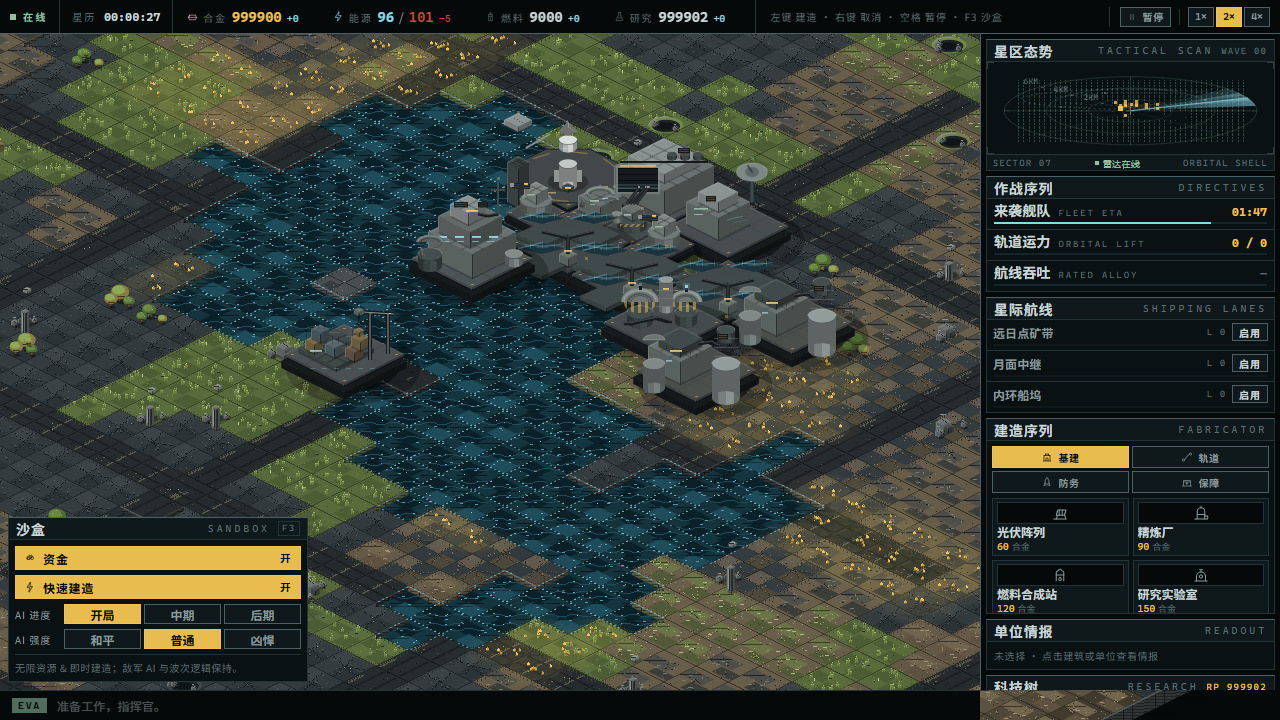
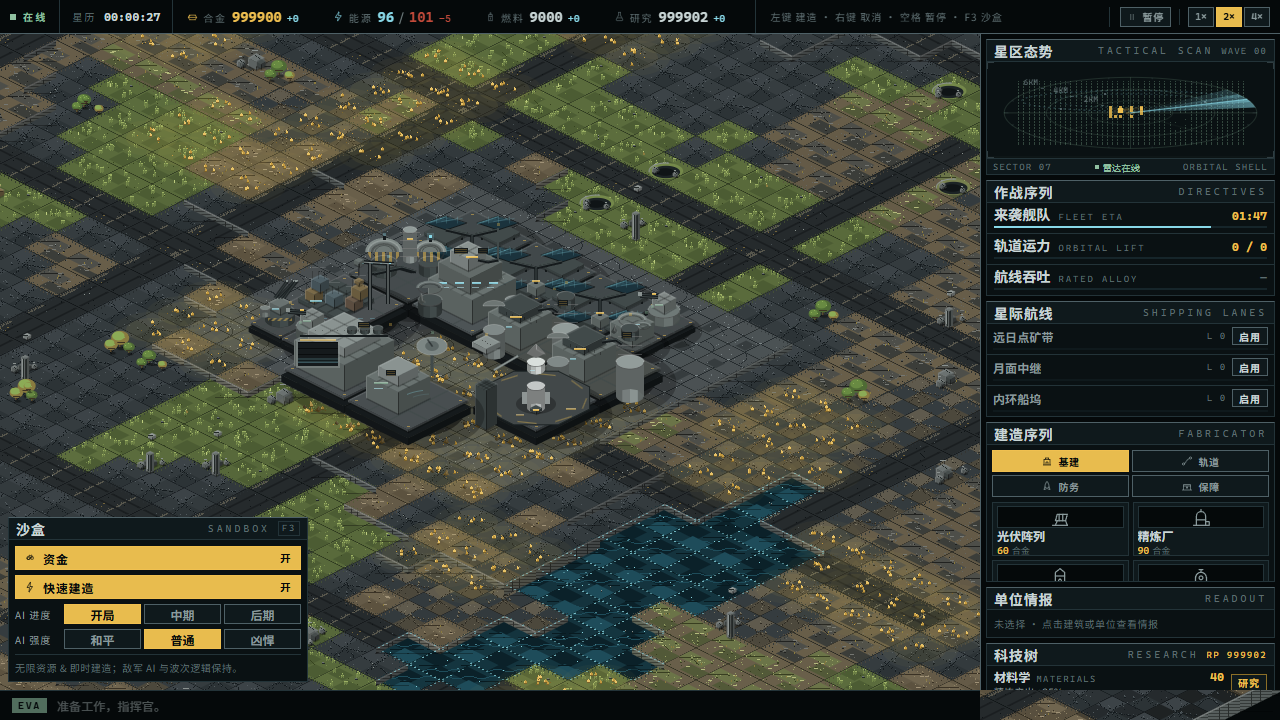
fix(render): apply zoom exactly once; found the colony on dry land
Two regressions reported from the packaged exe, both real:

1) Buildings drifted off their tiles when zooming. Zoom was applied twice:
   iso.toScreen() multiplied by cam.zoom *and* Renderer.draw() set the canvas
   transform to dpr*zoom. toScreen/visible now stay in drawing space and the
   single canvas transform owns magnification. Verified by clicking the computed
   projection of the command hub: it selects 指挥中枢 at zoom 0.75 / 1.00 / 1.76,
   i.e. painting and hit-testing agree at every zoom.

2) The colony was founded inside the brine basin, so structures looked like they
   were floating on a lake. Painted materials and placement rules already agreed
   (new web/tests/wasm-map.test.ts proves it tile by tile); the start tile itself
   was just underwater (60 of 100 tiles in the opening 10x10). mapgen now carves
   a dry 19x19 land pad with a mixed hard-edged basalt/regolith surface, a
   11x10 concrete apron that overrides the haul roads, and a guaranteed ore body
   under the seeded refinery so the opening economy is never a coin flip.

Also: refreshed docs screenshots, exe rebuilt (0.42 MiB), decisions N-07.

diff --git a/web/tests/wasm-map.test.ts b/web/tests/wasm-map.test.ts
@@ -1,0 +1,85 @@
+/**
+ * Integration test: the map the client paints must be the map the simulation
+ * rules over.
+ *
+ * `BootBlob.map.material` drives the terrain painter; `oc_query_place` drives
+ * placement legality. If those two ever disagree, buildings appear to float on
+ * water. This test loads the real wasm build and cross-checks every tile.
+ */
+
+import { readFileSync } from 'node:fs';
+import { join } from 'node:path';
+import { describe, expect, it } from 'vitest';
+
+import { decodeBootBlob } from '../../web/src/net/decode';
+import type { BootBlob } from '../../web/src/generated/BootBlob';
+
+/** The subset of the bridge ABI this test needs. */
+interface OcExports {
+  readonly memory: WebAssembly.Memory;
+  readonly oc_init: (seed: number) => number;
+  readonly oc_boot_ptr: () => number;
+  readonly oc_boot_len: () => number;
+  readonly oc_query_place: (kind: number, tx: number, ty: number) => number;
+}
+
+/** Building table index of the 1x1 bulwark: cheapest legal proxy for "can build here?". */
+const BULWARK = 10;
+/** Terrain material indices that must reject construction (`oc-content`). */
+const UNBUILDABLE = new Set([4, 7]); // brine, crystal field
+
+async function bootWorld(): Promise<{ exports: OcExports; boot: BootBlob }> {
+  const bytes = readFileSync(join(process.cwd(), 'web', 'public', 'oc.wasm'));
+  const { instance } = await WebAssembly.instantiate(bytes, {});
+  const exports = instance.exports as unknown as OcExports;
+  exports.oc_init(0x5eed_1234);
+  const view = new Uint8Array(
+    exports.memory.buffer,
+    exports.oc_boot_ptr(),
+    exports.oc_boot_len(),
+  );
+  return { exports, boot: decodeBootBlob(view.slice()) };
+}
+
+describe('wasm map / rules agreement', () => {
+  it('refuses placement on exactly the tiles it paints as unbuildable', async () => {
+    const { exports, boot } = await bootWorld();
+    const { map } = boot;
+    const mismatches: string[] = [];
+
+    for (let ty = 0; ty < map.h; ty += 1) {
+      for (let tx = 0; tx < map.w; tx += 1) {
+        const material = map.material[ty * map.w + tx] ?? 0;
+        const packed = exports.oc_query_place(BULWARK, tx, ty);
+        const placementOk = (packed & 8) !== 0;
+        if (UNBUILDABLE.has(material) && placementOk) {
+          mismatches.push(`(${tx},${ty}) painted as material ${material} but reported buildable`);
+        }
+      }
+    }
+    expect(mismatches.slice(0, 8)).toEqual([]);
+  });
+
+  it('has a dry, buildable starting area', async () => {
+    const { exports, boot } = await bootWorld();
+    const { map } = boot;
+    // The colony is seeded around tile (19,19); its 8x8 neighbourhood must be
+    // land (and must allow construction) or the opening looks like it is
+    // floating on a lake.
+    let wet = 0;
+    let blocked = 0;
+    for (let ty = 16; ty < 26; ty += 1) {
+      for (let tx = 16; tx < 26; tx += 1) {
+        const material = map.material[ty * map.w + tx] ?? 0;
+        if (UNBUILDABLE.has(material)) wet += 1;
+        const packed = exports.oc_query_place(BULWARK, tx, ty);
+        if ((packed & 8) === 0) blocked += 1;
+      }
+    }
+    expect(wet).toBe(0);
+    // Only the tiles already occupied by the three seeded structures (each a 2x2
+    // footprint) may be blocked in that window.
+    expect(blocked).toBeLessThanOrEqual(14);
+    expect(blocked).toBeGreaterThan(0);
+  });
+});

diff --git a/web/src/render/iso.ts b/web/src/render/iso.ts
@@ -50,15 +50,16 @@ export function project(x: number, y: number, z: number): Point {
   };
 }
 
-/** Project and apply the camera transform, in the renderer's zoomed space. */
+/**
+ * Project and translate into the renderer's **drawing space**.
+ *
+ * Zoom is deliberately *not* applied here: `Renderer.draw` sets
+ * `setTransform(dpr·zoom, …)` once, so the whole frame -- baked terrain, solids,
+ * effects, overlays -- is magnified in one place. Multiplying here as well would
+ * apply the magnification twice and make buildings drift off their tiles
+ * whenever `zoom ≠ 1`.
+ */
 export function toScreen(cam: Camera, x: number, y: number, z: number): Point {
-  const p = project(x, y, z);
-  const zoom = cam.zoom;
-  return { x: (p.x + cam.x) * zoom, y: (p.y + cam.y) * zoom };
-}
-
-/** Project into the renderer's own (pre-zoom) drawing space. */
-export function toProjected(cam: Camera, x: number, y: number, z: number): Point {
   const p = project(x, y, z);
   return { x: p.x + cam.x, y: p.y + cam.y };
 }
@@ -85,14 +86,14 @@ export function depthKey(x: number, y: number, z: number): number {
   return (x + y) * 1000 + (z > 0 ? 1 : 0);
 }
 
-/** Is a projected point inside the viewport (with a margin), in CSS px? */
+/**
+ * Is a point of the renderer's drawing space inside the viewport?
+ *
+ * `p` is in drawing space (as returned by {@link toScreen}), so it is magnified
+ * by `zoom` before being compared with the CSS viewport.
+ */
 export function visible(cam: Camera, p: Point, margin = 96): boolean {
-  const sx = (p.x + cam.x) * cam.zoom;
-  const sy = (p.y + cam.y) * cam.zoom;
-  return (
-    sx > -margin &&
-    sy > -margin &&
-    sx < cam.width + margin &&
-    sy < cam.height + margin
-  );
+  const sx = p.x * cam.zoom;
+  const sy = p.y * cam.zoom;
+  return sx > -margin && sy > -margin && sx < cam.width + margin && sy < cam.height + margin;
 }

diff --git a/crates/sim/src/mapgen.rs b/crates/sim/src/mapgen.rs
@@ -92,6 +92,7 @@ pub fn generate(seed: u32, w: i32, h: i32) -> Generated {
             map.height[i] = height;
         }
     }
+    carve_colony_land(&mut map, START_TX, START_TY);
     carve_roads(&mut map);
     carve_apron(&mut map, START_TX, START_TY);
     seed_deposits(seed, &mut map);
@@ -99,6 +100,44 @@ pub fn generate(seed: u32, w: i32, h: i32) -> Generated {
     Generated {
         map,
         start: (START_TX, START_TY),
+    }
+}
+
+/// Make sure the colony is founded on dry land with water access nearby.
+///
+/// The basin pull puts the map centre below the brine threshold, so without this
+/// the starting command hub would sit waist-deep in a lake -- which reads as
+/// "buildings floating on water" because placement rules and the painted map
+/// would both be correct, just badly placed. The pad is raised two steps above
+/// the basin floor so the cliff-lip renderer draws a shoreline around it.
+fn carve_colony_land(map: &mut Map, cx: i32, cy: i32) {
+    const RADIUS_X: i32 = 9;
+    const RADIUS_Y: i32 = 9;
+    for y in cy - RADIUS_Y..=cy + RADIUS_X {
+        for x in cx - RADIUS_X..=cx + RADIUS_Y {
+            let Some(i) = map.index(x, y) else {
+                continue;
+            };
+            if matches!(map.material[i], T_BRINE | T_CRYSTAL | T_SAND) {
+                // Hard-edged patchwork, not a uniform slab: two materials mixed
+                // by a deterministic stripe pattern.
+                map.material[i] = if (x * 5 + y * 3).rem_euclid(11) < 4 {
+                    T_REGOLITH
+                } else {
+                    T_BASALT
+                };
+                map.height[i] = 1;
+            }
+        }
+    }
+    // A guaranteed ore body under the seeded refinery (start + 3, + 3), so the
+    // opening economy is not a coin flip on whether a random cluster landed here.
+    for y in cy + 1..=cy + 6 {
+        for x in cx + 1..=cx + 6 {
+            if let Some(i) = map.index(x, y) {
+                map.deposit[i] = map.deposit[i].max(120);
+            }
+        }
     }
 }
 
@@ -145,11 +184,14 @@ fn carve_roads(map: &mut Map) {
 }
 
 fn carve_apron(map: &mut Map, cx: i32, cy: i32) {
-    for y in cy - 2..cy + 4 {
-        for x in cx - 2..cx + 4 {
+    // Poured concrete under the colony core; runs after the roads so the base
+    // reads as one plate instead of a haul road cutting through it.
+    for y in cy - 3..cy + 6 {
+        for x in cx - 3..cx + 7 {
             if let Some(i) = map.index(x, y) {
-                if map.material[i] != T_BRINE {
-                    map.material[i] = T_APRON;
+                map.material[i] = T_APRON;
+                if map.height[i] < 1 {
+                    map.height[i] = 1;
                 }
             }
         }

diff --git a/docs/decisions.md b/docs/decisions.md
@@ -228,6 +228,31 @@ UTF-8 代码页并设置窗口标题。`scripts/package-exe.mjs` 一条命令产
 
 ---
 
+## N-07 · 开局地块：把殖民地「抬出湖盆」，并保证矿脉在脚下
+
+**改了什么**：`crates/sim/src/mapgen.rs` 新增 `carve_colony_land()`：在出生点周围 19×19 的
+范围里，把卤水 / 晶簇 / 硅砂改成玄武岩与风化表土交错的地块（硬边拼花，不是一整块），
+海拔抬到 1；混凝土坪扩大到 11×10 并覆盖道路；在出生点 (+1..+6)² 强制铺一层富矿。
+`generate()` 的顺序改为：地形分类 → 修整殖民地地块 → 铺路 → 铺混凝土坪 → 撒矿 → 撒装饰。
+
+**为什么**：盆地引力让地图正中心必然低于卤水阈值，而出生点固定在 (19,19)，于是
+**开局的三座建筑是泡在湖里的**——放大后非常明显（用户报告截图）。这不是渲染 bug：
+新加的 `web/tests/wasm-map.test.ts` 证明「画出来的材质」与 `oc_query_place` 的判定完全一致
+（每一格卤水/晶簇都拒绝建造），只是开局点本身选在了水里（10×10 窗口里 60 格是水面）。
+顺带修了一个经济隐患：随机矿簇不保证落在预置精炼厂脚下，开局可能没有合金产出。
+
+**影响**：正向——殖民地站在一整块混凝土坪上，周围有岸线（崖壁渲染器自动画出来），
+开局经济稳定（精炼厂必然踩在矿脉上）。负向——地图不再是「纯自然」地形，
+出生点是一处被平整过的工地，这反而符合「殖民前哨」的叙事；同时确定性哈希变了
+（同 seed 仍双跑一致，CI 守卫不受影响）。
+
+**新增守卫**：`web/tests/wasm-map.test.ts` 直接实例化 `oc.wasm`，逐格比对
+`BootBlob.map.material` 与 `oc_query_place` 的结果，并断言开局 10×10 区域水面为 0、
+只有已被三座预置建筑占据的格子被判定为不可建。这条测试把「渲染地图」与「仿真规则」
+钉死在一起，以后再改地图生成不会静默退化成「建筑浮在水上」。
+
+---
+
 ## N-06 · 缩放：滚轮 0.75×–2.5×（正交放大），并修正了平移边界
 
 **改了什么**：新增 `web/src/app/camera-rig.ts` —— 相机的平移/缩放/边界钳制集中在此。
